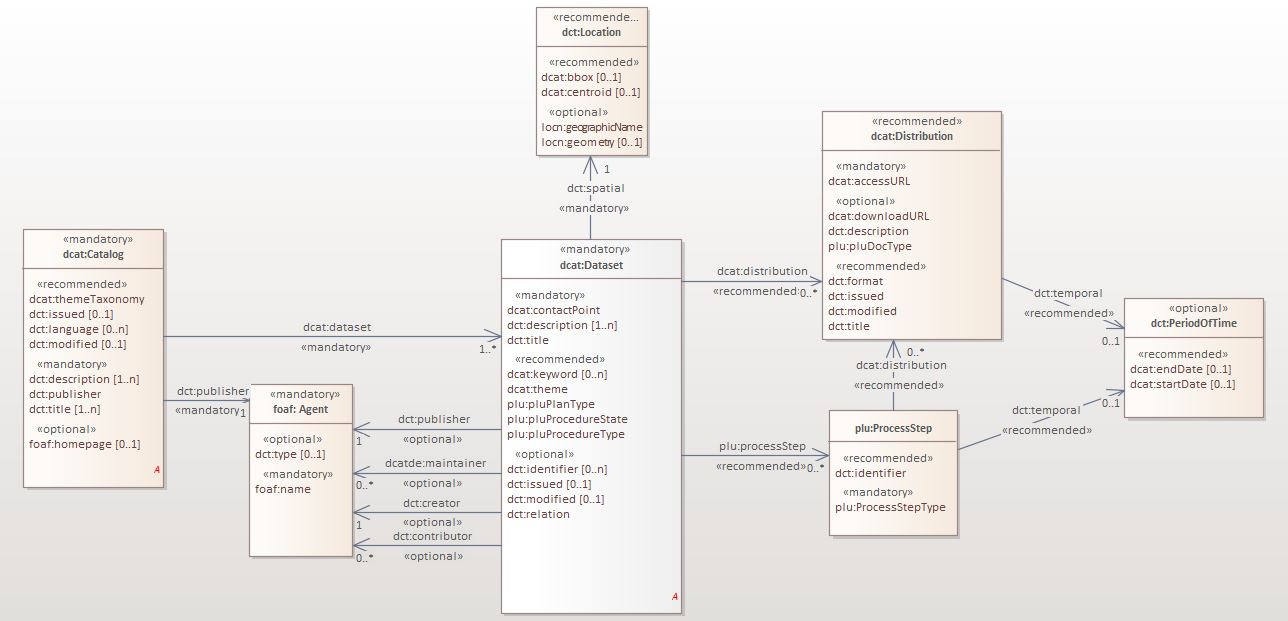
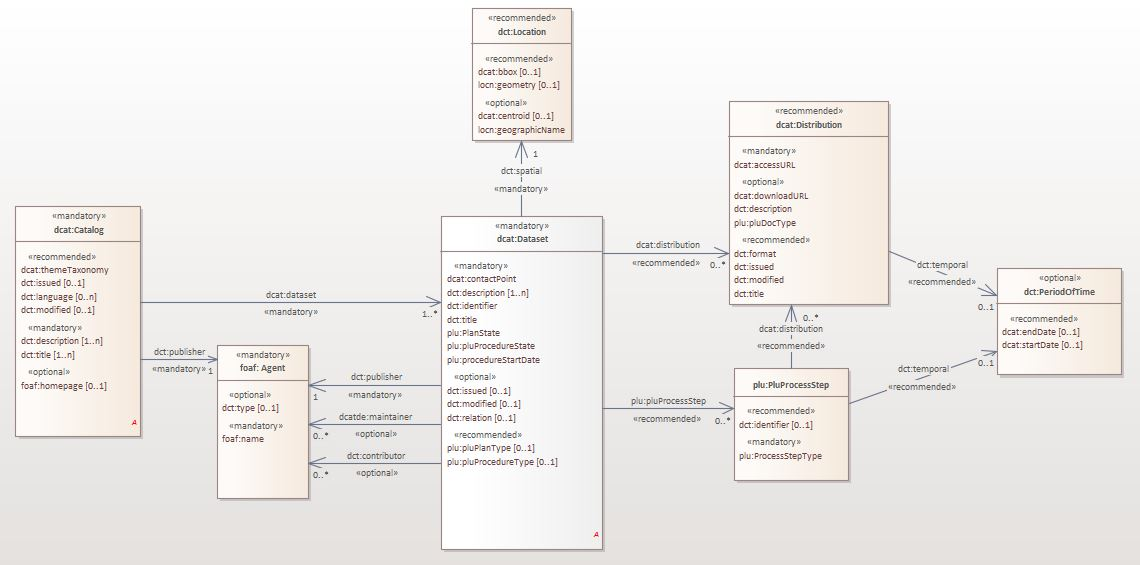
Adapt model and documentation.

Changed region(s): [[0.0, 0.0, 1.0, 0.9929]]

diff --git a/drafts/0.0.1-draft-0.1/doc-plu.html b/drafts/0.0.1-draft-0.1/doc-plu.html
@@ -181,7 +181,7 @@
           <tr><td class="prop">Definition:</td><td>Sprache des Katalogs, in der die Textelemente der Metadaten verfasst sind (z.B. Titel, Beschreibung)</td></tr>
           <tr><td class="prop">Typ/Wertebereich:</td><td>
           <p><a href="http://purl.org/dc/terms/LinguisticSystem"><code>dct:LinguisticSystem</code></a></p></td></tr>
-          <tr><td class="prop">Anwendungshinweis:</td><td>Eigenschaft wird wiederholt, falls die Datensätze in mehreren Sprachen vorhanden sind.</td></tr>
+          <tr><td class="prop">Anwendungshinweis:</td><td>Die Eigenschaft kann wiederholt werden, falls die Datensätze in mehreren Sprachen vorhanden sind.</td></tr>
           </tbody>
           </table>
         </section>
@@ -250,33 +250,6 @@
           </table>
         </section>
 
-        <section id="Property:resource_keyword">
-          <h4 id="property-keyword-tag">Eigenschaft: Schlagworte</h4>
-          <table class="definition">
-          <thead><tr><th>URI:</th><th><a href="http://www.w3.org/ns/dcat#keyword">dcat:keyword</a></th></tr></thead>
-          <tbody>
-          <tr><td class="prop">Verbindlichkeit:</td>:</td><td>Empfohlen</td></tr>
-          <tr><td class="prop">Definition:</td><td>Ein oder mehrere Schlagworte oder Schlüsselbegriffe, die den Datensatz beschreiben.</td></tr>
-          <tr><td class="prop">Typ/Wertebereich:</td><td><a href="http://www.w3.org/2000/01/rdf-schema#Literal"><code>rdfs:Literal</code></a></td></tr>
-          </tbody>
-          </table>
-        </section>
-
-        <section id="Property:resource_theme">
-          <h4 id="property-theme-category">Eigenschaft: Thema / Kategorie <a class="self-link" aria-label="§" href="#Property:resource_theme"></a></h4>
-
-          <table class="definition">
-              <thead><tr><th>URI:</th><th><a href="http://www.w3.org/ns/dcat#theme">dcat:theme</a></th></tr></thead>
-              <tbody>
-              <tr><td class="prop">Verbindlichkeit:</td>:</td><td>Empfohlen</td></tr>
-              <tr><td class="prop">Definition:</td><td>Hauptkategorie des Datensatzes</td></tr>
-              <tr><td class="prop">Typ/Wertebereich:</td><td><a href="http://www.w3.org/2004/02/skos/core#Concept"><code>skos:Concept</code></a></td></tr>
-              <tr><td class="prop">Anwendungshinweis:</td><td>Ein Datensatz kann mehreren Kategorien angehören. Der Satz von <a href="http://www.w3.org/2004/02/skos/core#Concept"><code>skos:Concept</code></a>s die den Datensatz kategorisieren sind in einem
-                 <a href="http://www.w3.org/2004/02/skos/core#ConceptScheme"><code>skos:ConceptScheme</code></a> organisiert, das alle Kategorien im Katalog beschreibt.</td></tr>
-              </tbody>
-          </table>
-        </section>
-
         <section id="Property:dataset_release_date">
           <h4 id="property-release-date">Eigenschaft: Veröffentlichungsdatum</h4>
           <table class="definition">
@@ -307,7 +280,7 @@
          <table class="definition">
          <thead><tr><th>URI:</th><th><a href="http://purl.org/dc/terms/identifier">dct:identifier</a></th></tr></thead>
          <tbody>
-         <tr><td class="prop">Verbindlichkeit:</td>:</td><td>Optional</td></tr>
+         <tr><td class="prop">Verbindlichkeit:</td>:</td><td>Verpflichtend</td></tr>
          <tr><td class="prop">Definition:</td><td>Eineindeutiger Identifikator des Datensatzes im Kontext des jeweiligen Katalogs</td></tr>
          <tr><td class="prop">Typ/Wertebereich:</td><td><a href="http://www.w3.org/2000/01/rdf-schema#Literal"><code>rdfs:Literal</code></a></td></tr>
          </tbody>
@@ -322,7 +295,7 @@
           <tr><td class="prop">Verbindlichkeit:</td>:</td><td>Verpflichtend</td></tr>
           <tr><td class="prop">Definition:</td><td>Ansprechpartner zum Datensatz. Die Benutzung von vCard wird empfohlen.</td></tr>
           <tr><td class="prop">Typ/Wertebereich:</td><td><a href="http://www.w3.org/TR/vcard-rdf/#Kind"><code>vcard:Kind</code></a></td></tr>
-          <tr><td class="prop">Anwendungshinweis:</td><td>Der Ansprechpartner stellt im PLU-Anwendungsfall die zuständige Behörde dar.</td></tr>
+          <tr><td class="prop">Anwendungshinweis:</td><td>Der Ansprechpartner stellt im Anwendungsfall die für das Planwerk oder Verfahren zuständige Behörde dar.</td></tr>
           </tbody>
           </table>
        </section>
@@ -332,10 +305,10 @@
           <table class="definition">
           <thead><tr><th>URI:</th><th>plu:pluProcedureType</th></tr></thead>
           <tbody>
-          <tr><td class="prop">Verbindlichkeit:</td>:</td><td>Verpflichtend</td></tr>
-          <tr><td class="prop">Definition:</td><td>Art des Verfahrens bei raumbezogenen Planwerken</td></tr>
+          <tr><td class="prop">Verbindlichkeit:</td>:</td><td>Empfohlen</td></tr>
+          <tr><td class="prop">Definition:</td><td>Art des Verfahrens bei der Aufstellung raumbezogener Planwerke</td></tr>
           <tr><td class="prop">Typ/Wertebereich:</td><td><code>rdfs:Literal</code></td></tr>
-          <tr><td class="prop">Anwendungshinweis:</td><td>Mit dieser Eigenschaft werden die Verfahren nach ihrer Art kategorisiert, z.B. "Vereinfachtess Verfahren", "Normales Verfahren". Die möglichen Verfahrensarten sind durch eine <a href="#codelist-pluProcedureType">Codeliste</a> festgelegt.</td></tr>
+          <tr><td class="prop">Anwendungshinweis:</td><td>Mit dieser Eigenschaft werden die Verfahren nach ihrer Art kategorisiert, z.B. "Vereinfachtes Verfahren", "Normales Verfahren". Die möglichen Verfahrensarten sind durch eine <a href="#codelist-pluProcedureType">Codeliste</a> festgelegt.</td></tr>
           </tbody>
           </table>
         </section>
@@ -348,7 +321,7 @@
           <tr><td class="prop">Verbindlichkeit:</td>:</td><td>Verpflichtend</td></tr>
           <tr><td class="prop">Definition:</td><td>Status in dem sich ein Verfahren befindet</td></tr>
           <tr><td class="prop">Typ/Wertebereich:</td><td><code>rdfs:Literal</code></td></tr>
-          <tr><td class="prop">Anwendungshinweis:</td><td>Mit dieser Eigenschaft wird der Status eines Verfahrens kategorisiert, z.B. "geplant", "laufend" oder "abgeschlossen".  Die möglichen Stati sind in einer <a href="#codelist-pluProcedureState">Codeliste</a> festgelegt.</td></tr>
+          <tr><td class="prop">Anwendungshinweis:</td><td>Mit dieser Eigenschaft wird der übergeordnete Status eines Verfahrens kategorisiert, z.B. "geplant", "laufend" oder "abgeschlossen".  Die möglichen Stati sind in einer <a href="#codelist-pluProcedureState">Codeliste</a> festgelegt.</td></tr>
           </tbody>
           </table>
         </section>
@@ -358,8 +331,8 @@
           <table class="definition">
           <thead><tr><th>URI:</th><th>plu:pluPlanType</th></tr></thead>
           <tbody>
-          <tr><td class="prop">Verbindlichkeit:</td>:</td><td>Verpflichtend</td></tr>
-          <tr><td class="prop">Definition:</td><td>Art des raumbezogenen Plans</td></tr>
+          <tr><td class="prop">Verbindlichkeit:</td>:</td><td>Empfohlen</td></tr>
+          <tr><td class="prop">Definition:</td><td>Art des raumbezogenen Planwerks</td></tr>
           <tr><td class="prop">Typ/Wertebereich:</td><td><code>rdfs:Literal</code></td></tr>
           <tr><td class="prop">Anwendungshinweis:</td><td>Mit dieser Eigenschaft wird die Art des raumbezogenen Planwerks ausgedrückt, z.B. Bebauungsplan, Regionalplan.
             Die möglichen Arten sind in einer <a href="#codelist-pluPlanType">Codeliste</a> festgelegt.</td></tr>
@@ -380,6 +353,32 @@
           </table>
         </section>
 
+        <section id="Property:dataset_procedure_start_date">
+          <h4 id="property-start-date">Eigenschaft: Verfahrensbeginn</h4>
+          <table class="definition">
+          <thead><tr><th>URI:</th><th><a href="http://purl.org/dc/terms/issued">plu:procedureStartDate</a></th></tr></thead>
+          <tbody>
+          <tr><td class="prop">Verbindlichkeit:</td>:</td><td>Verpflichtend</td></tr>
+          <tr><td class="prop">Definition:</td><td>Verfahrensbeginn</td></tr>
+          <tr><td class="prop">Typ/Wertebereich:</td><td><a href="http://www.w3.org/2000/01/rdf-schema#Literal"><code>rdfs:Literal</code> als <code>xsd:date</code> oder <code>xsd:dateTime</code></a></td></tr>
+          <tr><td class="prop">Anwendungshinweis:</td><td>Diese Eigenschaft enthält das Datum des Verfahrensbeginns.</td></tr>
+          </tbody>
+          </table>
+       </section>
+
+       <section id="Property:relation">
+        <h4 id="property-relation">Eigenschaft: Verweis</h4>
+        <table class="definition">
+        <thead><tr><th>URI:</th><th>dct:relation</th></tr></thead>
+        <tbody>
+        <tr><td class="prop">Verbindlichkeit:</td>:</td><td>Optional</td></tr>
+        <tr><td class="prop">Definition:</td><td>Verweis auf einen anderen Datensatz.</td></tr>
+        <tr><td class="prop">Typ/Wertebereich:</td><td><a href="http://www.w3.org/2000/01/rdf-schema#Resource"><code>rdfs:Resource</code></a></td></tr>
+        <tr><td class="prop">Anwendungshinweis:</td><td>Über diese Eigenschaft kann eine Verknüpfung mit einem anderen Verfahren dargestellt werden.</td></tr>
+        </tbody>
+        </table>
+       </section>
+
         <section id="Property:location">
           <h4 id="property-location">Eigenschaft: Raumbezug</h4>
           <table class="definition">
@@ -388,7 +387,7 @@
           <tr><td class="prop">Verbindlichkeit:</td>:</td><td>Verpflichtend</td></tr>
           <tr><td class="prop">Definition:</td><td>Raumbezug des Datensatzes</td></tr>
           <tr><td class="prop">Typ/Wertebereich:</td><td><a href="http://purl.org/dc/terms/Location"><code>dct:Location</code></td></tr>
-          <tr><td class="prop">Anwendungshinweis:</td><td>Ein räumlicher Bereich oder ein bezeichneter Ort. Er kann durch ein kontrolliertes Vokabular oder mit geographischen Koordinaten repräsentiert werden. Im letzteren Fall wird die Verwendung des Core Location Vocabulary empfohlen, wie in der GeoDCAT-AP-Spezifikation beschrieben</td></tr>
+          <tr><td class="prop">Anwendungshinweis:</td><td>Ein räumlicher Bereich oder ein bezeichneter Ort. Er kann durch ein kontrolliertes Vokabular oder mit geographischen Koordinaten repräsentiert werden. Im letzteren Fall wird die Verwendung des Core Location Vocabulary empfohlen, wie in der GeoDCAT-AP-Spezifikation beschrieben.</td></tr>
           </tbody>
           </table>
         </section>
@@ -406,25 +405,12 @@
           </table>
         </section>
 
-        <section id="Property:relation">
-          <h4 id="property-relation">Eigenschaft: Verweis</h4>
-          <table class="definition">
-          <thead><tr><th>URI:</th><th>dct:relation</th></tr></thead>
-          <tbody>
-          <tr><td class="prop">Verbindlichkeit:</td>:</td><td>Optional</td></tr>
-          <tr><td class="prop">Definition:</td><td>Verweis auf einen anderen Datensatz.</td></tr>
-          <tr><td class="prop">Typ/Wertebereich:</td><td><a href="http://www.w3.org/2000/01/rdf-schema#Resource"><code>rdfs:Resource</code></a></td></tr>
-          <tr><td class="prop">Anwendungshinweis:</td><td>Diese Eigenschaft verknüpft den Datensatz mit einem UVP-Verfahren.</td></tr>
-          </tbody>
-          </table>
-        </section>
-
         <section id="Property:publisher">
           <h4 id="property-publisher">Eigenschaft: Herausgeber</h4>
           <table class="definition">
           <thead><tr><th>URI:</th><th>dct:publisher</th></tr></thead>
           <tbody>
-          <tr><td class="prop">Verbindlichkeit:</td>:</td><td>Optional</td></tr>
+          <tr><td class="prop">Verbindlichkeit:</td>:</td><td>Verplfichtend</td></tr>
           <tr><td class="prop">Definition:</td><td>Herausgeber des Datensatzes.</td></tr>
           <tr><td class="prop">Typ/Wertebereich:</td><td><a href="http://xmlns.com/foaf/0.1/Agent"><code>foaf:Agent</code></a></td></tr>
           <tr><td class="prop">Anwendungshinweis:</td><td>Diese Eigenschaft verweist auf die Stelle oder Person, die für Bereitstellung
@@ -447,20 +433,6 @@
           </table>
         </section>
         
-        <section id="Property:creator">
-          <h4 id="property-creator">Eigenschaft: Autor</h4>
-          <table class="definition">
-          <thead><tr><th>URI:</th><th>dct:creator</th></tr></thead>
-          <tbody>
-          <tr><td class="prop">Verbindlichkeit:</td>:</td><td>Optional</td></tr>
-          <tr><td class="prop">Definition:</td><td>Autor des Datensatzes.</td></tr>
-          <tr><td class="prop">Typ/Wertebereich:</td><td><a href="http://xmlns.com/foaf/0.1/Agent"><code>foaf:Agent</code></a></td></tr>
-          <tr><td class="prop">Anwendungshinweis:</td><td>Diese Eigenschaft verweist auf Stellen oder Personen, die die Daten erstellt
-            haben.</td></tr>
-          </tbody>
-          </table>
-        </section>
-        
         <section id="Property:contributor">
           <h4 id="property-contributor">Eigenschaft: Bearbeiter</h4>
           <table class="definition">
@@ -475,6 +447,19 @@
           </table>
         </section>
 
+        <section id="Property:pluProcessStep">
+          <h4 id="property-eia-process-step">Eigenschaft: Verfahrensschritt</h4>
+          <table class="definition">
+          <thead><tr><th>URI:</th><th>plu:pluProcessStep</th></tr></thead>
+          <tbody>
+          <tr><td class="prop">Verbindlichkeit:</td>:</td><td>Empfohlen</td></tr>
+          <tr><td class="prop">Definition:</td><td>Verfahrensschritt</td></tr>
+          <tr><td class="prop">Typ/Wertebereich:</td><td>plu:pluProcessStep</td></tr>
+          <tr><td class="prop">Anwendungshinweis:</td><td>Diese Eigenschaft verknüpft ein Verfahren mit einem Verfahrensschritt.</td></tr>
+          </tbody>
+          </table>
+        </section>
+
      </section>
 
      <section id="Class:Distribution">
@@ -485,7 +470,7 @@
           <tr><td class="prop">Verbindlichkeit:</td>:</td><td>Empfohlen</td></tr>
           <tr><td class="prop">Definition:</td><td>Eine Repräsentation eines Datensatzes in einem bestimmten Format</td></tr>
           <tr><td class="prop">Anwendungshinweis:</td><td>Die Distribution stellt die generelle Verfügbarkeit eines Datensatzes dar aber beinhaltet nicht zwangsweise eine Zugangsmöglichkeit zu den Daten wie z.B.durch direkten Download, <abbr title="Application Programming Interface">API</abbr>, oder durch eine Internetseite.
-              Die Benutzung der Eigenschaft <code>dcat:downloadURL</code> zeigt eine direkt herunterladebare Distribution an.</td></tr>
+          Die Benutzung der Eigenschaft <code>dcat:downloadURL</code> zeigt eine direkt herunterladebare Distribution an.</td></tr>
           </tbody>
        </table>
 
@@ -572,14 +557,14 @@
        </section>
 
        <section id="Property:plu_document_Type">
-        <h4 id="property-plu-document-Type">Eigenschaft: Dokumententyp raumbezogene Planwerke oder Beteiligungsverfahren</h4>
+        <h4 id="property-plu-document-Type">Eigenschaft: Dokumententyp</h4>
         <table class="definition">
           <thead><tr><th>URI:</th><th>plu:pluDocType</th></tr></thead>
           <tbody>
           <tr><td class="prop">Verbindlichkeit:</td>:</td><td>Optional</td></tr>
           <tr><td class="prop">Definition:</td><td>Art eines Dokuments im Zusammenhang mit raumbezogenen Planwerken oder Beteiligungsverfahren</td></tr>
           <tr><td class="prop">Typ/Wertebereich:</td><td><a href="http://www.w3.org/2000/01/rdf-schema#Literal"><code>rdfs:Literal</code></a></td></tr>
-          <tr><td class="prop">Anwendungshinweis:</td><td>Über den Dokumententyp wird die Art der verfügbaren Dokumente ausgedrückt, die zu einem raumbezogenen Planwerk oder zu einem Beteiligungsverfahren zur Verfügung gestellt werden können, wie z.B. ... Die Arten von Dokumenten sind durch eine <a href="#codelist-pluDocType">Codeliste</a> definiert.</td></tr>
+          <tr><td class="prop">Anwendungshinweis:</td><td>Über den Dokumententyp wird die Art der verfügbaren Dokumente ausgedrückt, die zu einem raumbezogenen Planwerk oder zu einem Beteiligungsverfahren zur Verfügung gestellt werden können. Die Arten von Dokumenten sind durch eine <a href="#codelist-pluDocType">Codeliste</a> definiert.</td></tr>
          </tbody>
        </table>
        </section>
@@ -599,11 +584,12 @@
        <section id="Property:temporal">
          <h4 id="property-distribution-format">Eigenschaft: Zeitbezug</h4>
          <table class="definition">
-           <thead><tr><th>URI:</th><th>dct:temporal</th></tr></thead>
+           <thead><tr><th>URI:</th><th>dct:PeriodOfTime</th></tr></thead>
            <tbody>
            <tr><td class="prop">Verbindlichkeit:</td>:</td><td>Empfohlen</td></tr>
-           <tr><td class="prop">Definition:</td><td>Zeitraum, in dem die Distribution zur Verfügung steht oder Zeitpunkt, bis zu dem die Distribution zur Verfügung steht.</td></tr>
-           <tr><td class="prop">Typ/Wertebereich:</td><td></td></tr>
+           <tr><td class="prop">Definition:</td><td>Zeitraum, in dem die Distribution zur Verfügung steht oder Zeitpunkt, ab dem oder bis zu dem die Distribution zur Verfügung steht.</td></tr>
+           <tr><td class="prop">Typ/Wertebereich:</td><td>dct:temporal</td></tr>
+           <tr><td class="prop">Anwendungshinweis:</td><td>Über diese Eigenschaft kann der Zeitraum, in dem eine Distribution verfügbar sein soll, definiert werden.</td></tr>
            </tbody>
          </table>
        </section>
@@ -613,7 +599,7 @@
        <h3 id="class-process-step">Klasse: Verfahrensschritt</h3>
 
        <table class="definition">
-          <thead><tr><th>URI der Klasse:</th><th>plu:ProcessStep</th></tr></thead>
+          <thead><tr><th>URI der Klasse:</th><th>plu:PluProcessStep</th></tr></thead>
           <tbody>
           <tr><td class="prop">Verbindlichkeit:</td>:</td><td>Empfohlen</td></tr>
           <tr><td class="prop">Definition:</td><td>Verfahrensschritt</td></tr>
@@ -626,7 +612,7 @@
          <table class="definition">
          <thead><tr><th>URI:</th><th><a href="http://purl.org/dc/terms/identifier">dct:identifier</a></th></tr></thead>
          <tbody>
-         <tr><td class="prop">Verbindlichkeit:</td>:</td><td></td></tr>
+         <tr><td class="prop">Verbindlichkeit:</td>:</td><td>Empfohlen</td></tr>
          <tr><td class="prop">Definition:</td><td>Eineindeutiger Identifikator des Verfahrensschrittes</td></tr>
          <tr><td class="prop">Typ/Wertebereich:</td><td><a href="http://www.w3.org/2000/01/rdf-schema#Literal"><code>rdfs:Literal</code></a></td></tr>
          <tr><td class="prop">Anwendungshinweis:</td><td>...</td></tr>
@@ -732,7 +718,7 @@
             <table class="definition">
               <thead><tr><th>URI:</th><th><a title="http://www.w3.org/ns/locn#geometry" href="http://www.w3.org/ns/locn#geometry">locn:geometry</a></th></tr></thead>
               <tbody>
-              <tr><td class="prop">Verbindlichkeit:</td>:</td><td>Empfhohlen</td></tr>
+              <tr><td class="prop">Verbindlichkeit:</td>:</td><td>Empfohlen</td></tr>
               <tr><td class="prop">Definition:</td><td>Beschreibt die Geometrie einer Ressource.</td></tr>
               <tr><td class="prop">Typ/Wertebereich:</td><td><a href="https://www.w3.org/TR/rdf-schema/#ch_literal"><code title="http://www.w3.org/2000/01/rdf-schema#Literal">rdfs:Literal</code></a></td></tr>
               <tr><td class="prop">Anwendungshinweis:</td><td>Bewusst generisch gehalten um verschiedene geometrische Kodierungen zu erlauben. So könnte die Geometrie z.B. als <abbr title="Well-known Text">WKT</abbr> (<a href="http://www.opengis.net/ont/geosparql#asWKT"><code title="http://www.opengis.net/ont/geosparql#asWKT">geosparql:asWKT</code>)</a> kodiert werden.</td></tr>
@@ -746,7 +732,7 @@
             <table class="definition">
               <thead><tr><th>URI:</th><th><a href="http://www.w3.org/ns/dcat#bbox" title="http://www.w3.org/ns/dcat#centroid">dcat:bbox</a></th></tr></thead>
               <tbody>
-                <tr><td class="prop">Verbindlichkeit:</td>:</td><td>Optional</td></tr>
+                <tr><td class="prop">Verbindlichkeit:</td>:</td><td>Empfohlen</td></tr>
                 <tr><td class="prop">Definition:</td><td>Die Bounding Box einer Ressource</td></tr>
                 <tr><td class="prop">Typ/Wertebereich:</td><td><a href="https://www.w3.org/TR/rdf-schema/#ch_literal"><code title="http://www.w3.org/2000/01/rdf-schema#Literal">rdfs:Literal</code></a></td></tr>
                 <tr><td class="prop">Anwendungshinweis:</td><td>Bewusst generisch gehalten um verschiedene geometrische Kodierungen zu erlauben. So könnte die Geometrie z.B. als <abbr title="Well-known Text">WKT</abbr> (<a href="http://www.opengis.net/ont/geosparql#asWKT"><code title="http://www.opengis.net/ont/geosparql#asWKT">geosparql:asWKT</code>)</a> kodiert werden.</td></tr>
@@ -832,7 +818,7 @@
       <p>Im folgenden sind die innerhalb diese Datenmodells verwendeten Codelisten dokumentiert.</p>
 
       <section id="codelist-pluProcedureType">
-        <h3 id="codelist-pluProcedureType">Codeliste Verfahrensarten von raumbezogenen Planwerken<a class="self-link" href="#codelist-pluProcedureType"></a></h3>
+        <h3 id="codelist-pluProcedureType">Codeliste Arten von Verfahren zur Aufstellung raumbezogener Planwerke<a class="self-link" href="#codelist-pluProcedureType"></a></h3>
         <table>
           <thead><tr><th>Code</th><th>Beschreibung</th></tr></thead>
           <tbody>
@@ -936,8 +922,11 @@
           <thead><tr><th>Code</th><th>Beschreibung</th></tr></thead>
           <tbody>
           <tr><td>4001</td> <td>Auslegungsinformationen</td></tr>
-          <tr><td>4002</td> <td>...</td></tr>
-          <tr><td>4003</td> <td>...</td></tr>
+          <tr><td>4002</td> <td>Erläuterungsbericht</td></tr>
+          <tr><td>4003</td> <td>Planzeichnung</td></tr>
+          <tr><td>4004</td> <td>...</td></tr>
+          <tr><td>4005</td> <td>...</td></tr>
+          <tr><td>4006</td> <td>...</td></tr>
           </tbody>
         </table>
       </section>

diff --git a/drafts/0.0.1-draft-0.1/doc-eia.html b/drafts/0.0.1-draft-0.1/doc-eia.html
@@ -427,7 +427,7 @@
         <tr><td class="prop">Verbindlichkeit:</td>:</td><td>Optional</td></tr>
         <tr><td class="prop">Definition:</td><td>Verweis auf einen anderen Datensatz.</td></tr>
         <tr><td class="prop">Typ/Wertebereich:</td><td><a href="http://www.w3.org/2000/01/rdf-schema#Resource"><code>rdfs:Resource</code></a></td></tr>
-        <tr><td class="prop">Anwendungshinweis:</td><td>Diese Eigenschaft verknüpft den Datensatz mit einem Planverfahren.</td></tr>
+        <tr><td class="prop">Anwendungshinweis:</td><td>Über diese Eigenschaft kann eine Verknüpfung mit einem anderen Verfahren dargestellt werden.</td></tr>
         </tbody>
         </table>
       </section>
@@ -531,7 +531,7 @@
        </section>
 
        <section id="Property:eia_document_Type">
-         <h4 id="property-eia-document-Type">Eigenschaft: Dokumententyp UVP-Dokumente</h4>
+         <h4 id="property-eia-document-Type">Eigenschaft: Dokumententyp</h4>
          <table class="definition">
            <thead><tr><th>URI:</th><th>eia:eiaDocType</th></tr></thead>
            <tbody>
@@ -728,7 +728,7 @@
             <table class="definition">
               <thead><tr><th>URI:</th><th><a href="http://www.w3.org/ns/dcat#bbox" title="http://www.w3.org/ns/dcat#centroid">dcat:bbox</a></th></tr></thead>
               <tbody>
-                <tr><td class="prop">Verbindlichkeit:</td>:</td><td>Optional</td></tr>
+                <tr><td class="prop">Verbindlichkeit:</td>:</td><td>Empfohlen</td></tr>
                 <tr><td class="prop">Definition:</td><td>Die Bounding Box einer Ressource.</td></tr>
                 <tr><td class="prop">Typ/Wertebereich:</td><td><a href="https://www.w3.org/TR/rdf-schema/#ch_literal"><code title="http://www.w3.org/2000/01/rdf-schema#Literal">rdfs:Literal</code></a></td></tr>
                 <tr><td class="prop">Anwendungshinweis:</td><td>Bewusst generisch gehalten um verschiedene geometrische Kodierungen zu erlauben. So könnte die Geometrie z.B. als <abbr title="Well-known Text">WKT</abbr> (<a href="http://www.opengis.net/ont/geosparql#asWKT"><code title="http://www.opengis.net/ont/geosparql#asWKT">geosparql:asWKT</code></a>) kodiert werden.</td></tr>
